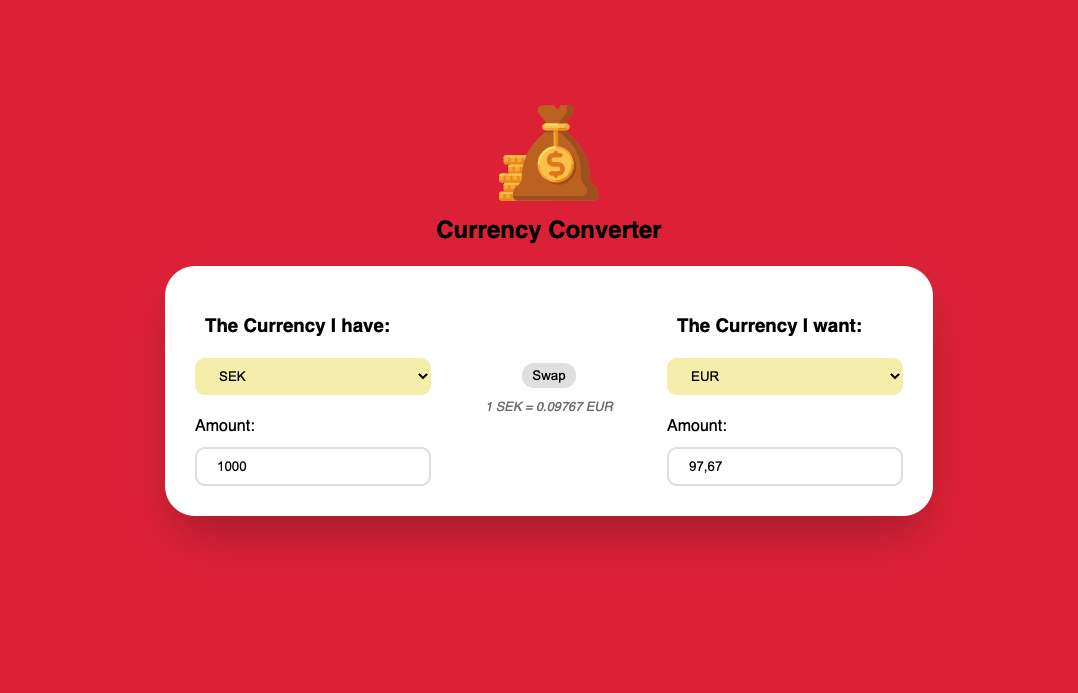
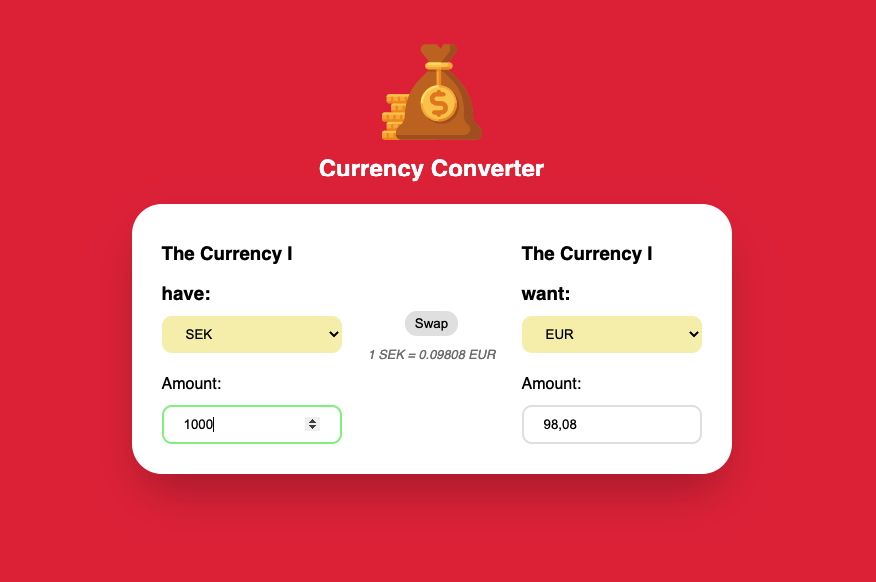
responsive

Changed region(s): [[0.1233, 0.0619, 0.8938, 0.866]]

diff --git a/style.css b/style.css
@@ -18,22 +18,25 @@ html {
 }
 
 .container {
-  max-width: 40%;
+  max-width: 600px;
+  width: 95%;
   margin: auto;
   background-color: white;
   border-radius: 30px;
   padding: 30px;
   box-shadow: 0 25px 50px -12px rgba(0, 0, 0, 0.25);
-  width: 100%;
   display: grid;
   grid-template-columns: 1fr 1fr 1fr;
   align-items: center;
   line-height: 2.5rem;
 }
 
+h2 {
+  color: white;
+}
+
 h3 {
   text-align: left;
-  padding: 10px;
 }
 
 .container-pic,
@@ -42,6 +45,10 @@ h3 {
   height: auto;
   text-align: center;
   line-height: 2rem;
+}
+
+.swap-rate-container {
+  padding: 20px;
 }
 
 .container-pic {
@@ -58,6 +65,7 @@ img {
 }
 
 button {
+  cursor: pointer;
   outline: none;
   border: none;
   background-color: rgba(0, 0, 0, 0.1);
@@ -94,4 +102,10 @@ select {
 
 select:hover {
   background-color: lightcyan;
+}
+
+@media screen and (max-width: 600px) {
+  .container {
+    grid-template-columns: 1fr;
+  }
 }

diff --git a/index.html b/index.html
@@ -10,7 +10,7 @@
   <body>
     <div class="container-main">
       <div class="container-pic">
-        <img src="./img/money-bag.svg" alt="" />
+        <img src="./img/money-bag.svg" alt="Money Bag" />
         <h2>Currency Converter</h2>
       </div>
       <div class="container">
@@ -76,7 +76,7 @@
         <div class="swap-rate-container">
           <button class="btn" id="swap">Swap</button>
           <br />
-          <div class="rate" id="rate"></div>
+          <div class="rate" id="rate">Loading...</div>
         </div>
         <div class="currency">
           <h3>The Currency I want:</h3>
